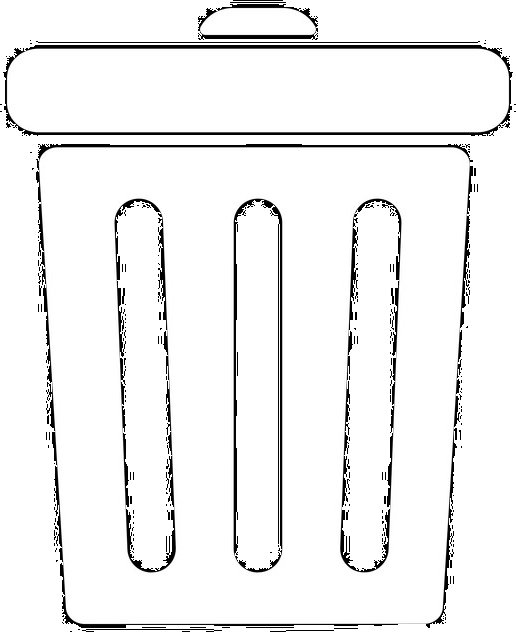
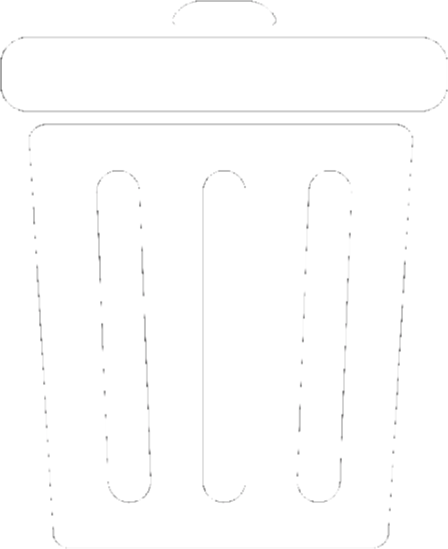
add reset button

diff --git a/scripts/scenes/Scene_Levels.js b/scripts/scenes/Scene_Levels.js
@@ -2,7 +2,7 @@ function Scene_Level1() {
 	var self = this;
 	LevelScene.call(self);
 
-	publish("/level/showLevel");
+	publish("/level/showLevel", [1]);
 	
 	NEURONS_SERIALIZED = '{"neurons":[[759,274,3,3],[583,232,3,2]],"connections":[[1,0,2,2]]}'
 	Neuron.unserialize(self, NEURONS_SERIALIZED, true);
@@ -12,7 +12,7 @@ function Scene_Level2() {
 	var self = this;
 	LevelScene.call(self);
 
-	publish("/level/showLevel");
+	publish("/level/showLevel", [2]);
 	
 	NEURONS_SERIALIZED = '{"neurons":[[150,295,3,2],[759,274,3,3],[575,350,2,4],[266,187,2,4],[583,232,3,4],[269,425,2,4],[377,447,3,4]],"connections":[[0,3,2,2],[2,1,2,2],[4,1,2,2],[5,6,2,2]]}'
 	Neuron.unserialize(self, NEURONS_SERIALIZED, true);

diff --git a/scripts/core/Toolbar.js b/scripts/core/Toolbar.js
@@ -62,11 +62,19 @@ save_button.onclick = function(){
 //////////////////////
 
 var level_number = document.getElementById("level_number");
-var curr_level = 1;
-var level_listener = subscribe("/level/showLevel", function() {
+var level_listener = subscribe("/level/showLevel", function(curr_level) {
 	console.log("New level: Level " + curr_level.toString());
 	level_number.innerHTML = "Level " + curr_level.toString();
 	curr_level += 1;
 });
+
+//////////////////////
+//// RESET BUTTON ////
+//////////////////////
+
+var reset_button = document.getElementById("toolbar_reset");
+reset_button.addEventListener("click", function(event) {
+	publish("/level/reset");
+}, false);
 
 })();

diff --git a/scripts/narrator/level.js b/scripts/narrator/level.js
@@ -17,9 +17,13 @@ Narrator.addStates({
 				console.log("Level 1 passed!");
 				Narrator.goto("LEVEL_2");
 			});
+			state._resetListener = subscribe("/level/reset", function() {
+				Narrator.scene("Level1");
+			});
 		},
 		kill: function(state) {
 			unsubscribe(state._listener);
+			unsubscribe(state._resetListener);
 		}
 	},
 
@@ -29,6 +33,9 @@ Narrator.addStates({
 			state._listener = subscribe("/level/nextLevel", function() {
 				unsubscribe(state._listener);
 				console.log("Level 2 passed!");
+			});
+			state._resetListener = subscribe("/level/reset", function() {
+				Narrator.scene("Level2");
 			});
 		},
 		kill: function(state) {

diff --git a/styles/interactive.css b/styles/interactive.css
@@ -298,7 +298,8 @@ canvas {
 }
 #delete_img {
   content: url(../assets/ui/trash.png);
-  max-height: 100%;
+  max-height: 85%;
+  margin-top: 3px;
   display: block;
   margin-left: auto;
   margin-right: auto;
@@ -353,6 +354,21 @@ canvas {
   margin-right: auto;
   cursor: pointer;
 }
+
+#toolbar_reset {
+  float: right;
+  width: 50px;
+}
+#reset_img {
+  content: url(../assets/ui/reset.png);
+  margin-top: 3px;
+  max-height: 80%;
+  display: block;
+  margin-left: auto;
+  margin-right: auto;
+  cursor: pointer;
+}
+
 #level_number {
   position: relative;
   text-align: center; /* To center it horizontally (if you want) */

diff --git a/interactive.html b/interactive.html
@@ -33,6 +33,7 @@
             <div id="current_forget"></div>
           </div>
           <div id="toolbar_save"><img id="save_img" /></div>
+          <div id="toolbar_reset"><img id="reset_img" /></div>
         </div>
       </div>
       <div id="level_controls"><span></span>
